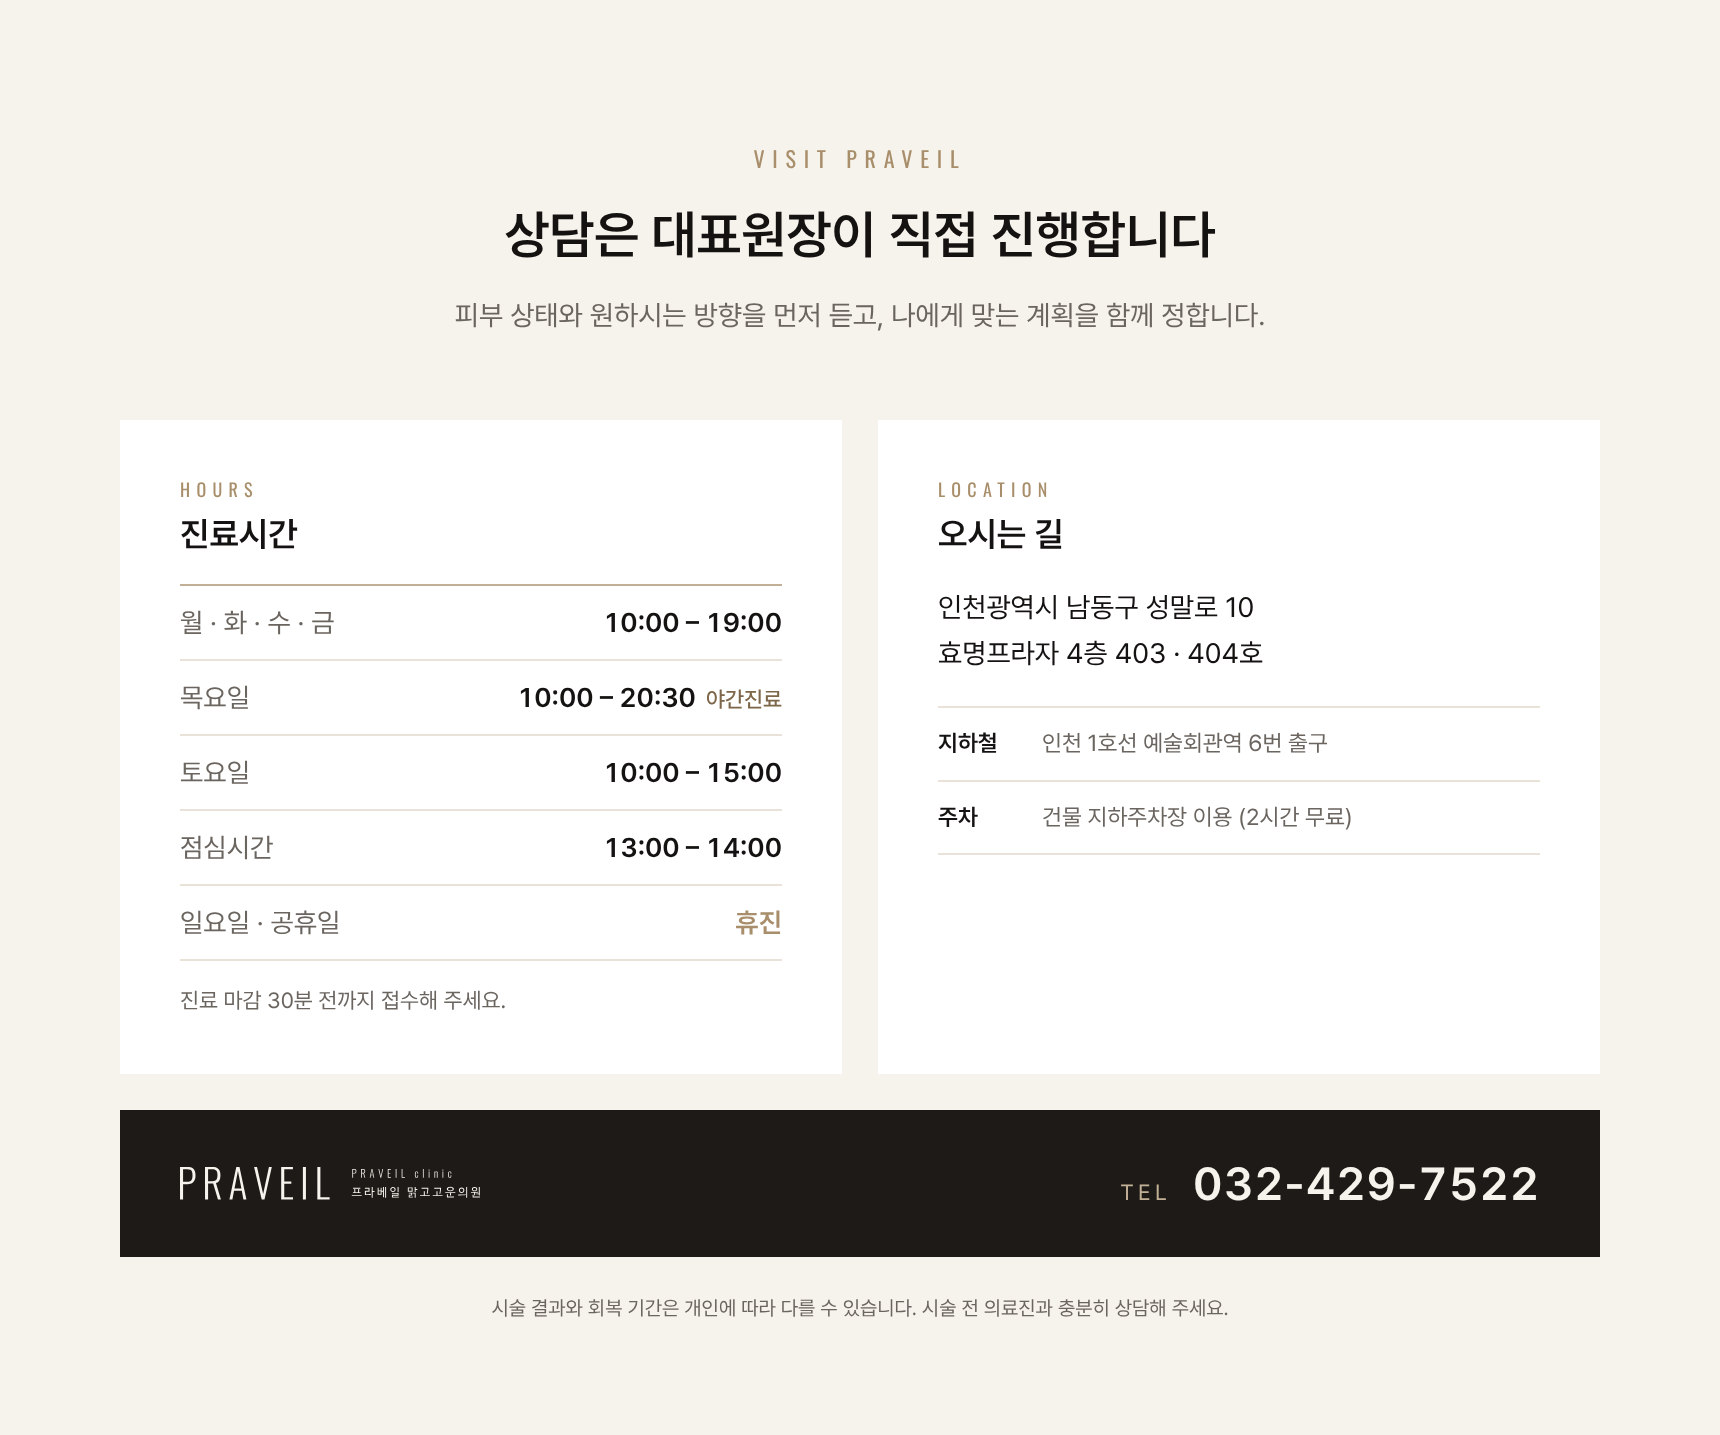
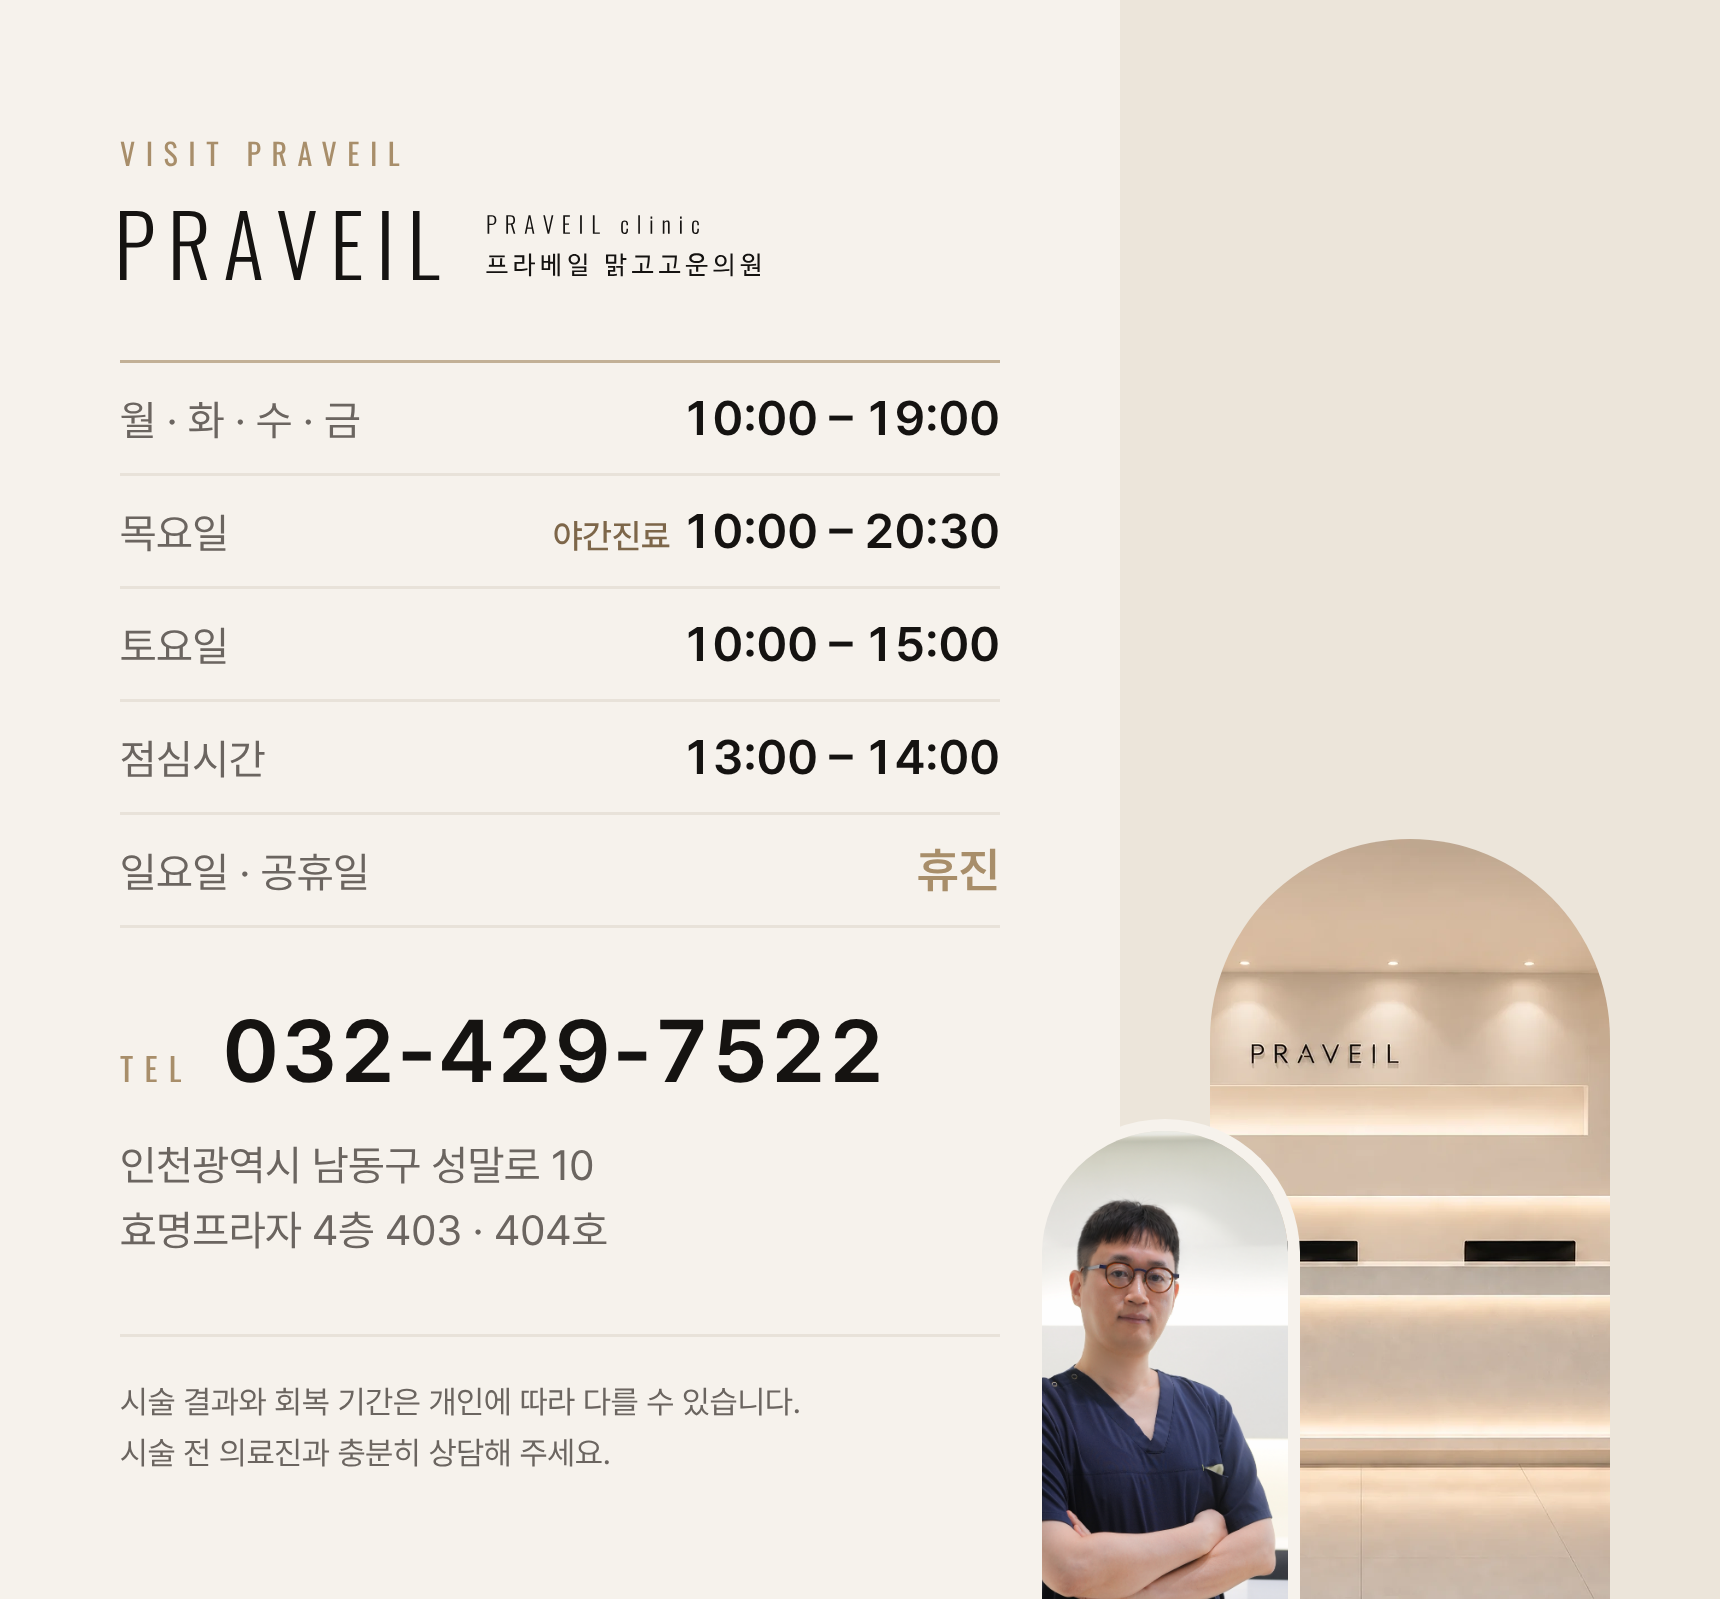
네이버 블로그 글 꼬리 A-3 구성으로 변경 (휴대폰에서 읽히게 글자 크게)
Claude-Session: https://claude.ai/code/session_01Ld2YJmc6iArSkVBjrjkKUN

diff --git a/docs/naver-blog-skin/skin.html b/docs/naver-blog-skin/skin.html
@@ -344,6 +344,7 @@
       }
       #title-a3 .arch.small .photo,
       #post-header .arch.small .photo,
+      #post-footer .arch.small .photo,
       #mobile-cover .arch.small .photo {
         /* 원장 세로 프로필: 얼굴 · 상반신이 보이게 확대 */
         object-position: 50% 0%;
@@ -706,139 +707,112 @@
         border-bottom: 0;
       }
 
+      /* 글 꼬리: A-3 구성. 휴대폰에서 약 1/5 크기로 보여서 글자를 크게 (본문 42px 이상) */
       #post-footer {
         width: 1720px;
         background: var(--ivory);
-        padding: 120px 120px 110px;
+        padding: 130px 120px 120px;
       }
-      #post-footer .head {
-        text-align: center;
+      #post-footer .panel {
+        position: absolute;
+        right: 0;
+        top: 0;
+        bottom: 0;
+        width: 600px;
+        background: var(--sand);
       }
-      #post-footer .head .en {
-        font-size: 22px;
+      #post-footer .copy {
+        position: relative;
+        width: 880px;
+        display: flex;
+        flex-direction: column;
+      }
+      #post-footer .copy > .en {
+        font-size: 30px;
         color: var(--gold);
       }
-      #post-footer .head h3 {
-        margin-top: 22px;
-        font-size: 52px;
-        font-weight: 600;
-        line-height: 1.4;
-      }
-      #post-footer .head p {
-        margin-top: 20px;
-        font-size: 28px;
-        color: var(--muted);
-        line-height: 1.7;
-      }
-      #post-footer .grid {
-        margin-top: 80px;
-        display: grid;
-        grid-template-columns: 1fr 1fr;
-        gap: 36px;
-      }
-      #post-footer .card {
-        background: var(--cream);
-        padding: 56px 60px;
-      }
-      #post-footer .card .en {
-        font-size: 18px;
-        color: var(--gold);
-      }
-      #post-footer .card h4 {
-        margin-top: 12px;
-        font-size: 34px;
-        font-weight: 600;
+      #post-footer .logo {
+        margin-top: 36px;
+        width: 640px;
+        color: var(--ink);
       }
       #post-footer dl {
-        margin-top: 30px;
-        border-top: 2px solid var(--taupe);
+        margin-top: 80px;
+        border-top: 3px solid var(--taupe);
       }
       #post-footer dl div {
         display: flex;
         justify-content: space-between;
-        padding: 20px 0;
-        border-bottom: 2px solid var(--line);
-        font-size: 27px;
+        align-items: baseline;
+        padding: 26px 0;
+        border-bottom: 3px solid var(--line);
       }
       #post-footer dt {
+        font-size: 42px;
         color: var(--muted);
       }
       #post-footer dd {
+        font-size: 48px;
         font-weight: 600;
         font-variant-numeric: tabular-nums;
       }
       #post-footer dd em {
         font-style: normal;
+        font-size: 34px;
         font-weight: 500;
         color: var(--mocha);
-        font-size: 22px;
-        margin-left: 10px;
+        margin-left: 14px;
       }
       #post-footer .closed dd {
         color: var(--gold);
       }
-      #post-footer .card .note {
-        margin-top: 22px;
-        font-size: 22px;
-        color: var(--muted);
-        line-height: 1.6;
-      }
-      #post-footer .loc p:not(.en) {
-        margin-top: 30px;
-        font-size: 28px;
-        line-height: 1.65;
-      }
-      #post-footer .loc ul {
-        margin-top: 30px;
-        list-style: none;
-        border-top: 2px solid var(--line);
-      }
-      #post-footer .loc li {
+      #post-footer .tel {
+        margin-top: 70px;
         display: flex;
-        gap: 24px;
-        padding: 18px 0;
-        border-bottom: 2px solid var(--line);
-        font-size: 23px;
+        align-items: baseline;
+        gap: 30px;
+        font-size: 88px;
+        font-weight: 600;
+        letter-spacing: 0.02em;
+        font-variant-numeric: tabular-nums;
+      }
+      #post-footer .tel .en {
+        font-size: 32px;
+        font-weight: 400;
+        color: var(--gold);
+      }
+      #post-footer .addr {
+        margin-top: 30px;
+        font-size: 42px;
         line-height: 1.55;
         color: var(--muted);
       }
-      #post-footer .loc li b {
-        flex: none;
-        width: 80px;
-        color: var(--ink);
-        font-weight: 600;
-      }
-      #post-footer .bar {
-        margin-top: 36px;
-        background: var(--espresso);
-        color: var(--ivory);
-        display: flex;
-        align-items: center;
-        justify-content: space-between;
-        padding: 46px 60px;
-      }
-      #post-footer .bar .logo {
-        width: 300px;
-      }
-      #post-footer .bar .tel {
-        font-size: 46px;
-        font-weight: 600;
-        font-variant-numeric: tabular-nums;
-        letter-spacing: 0.02em;
-      }
-      #post-footer .bar .tel span {
-        font-size: 22px;
-        font-weight: 400;
-        color: var(--taupe);
-        margin-right: 22px;
-        letter-spacing: 0.2em;
-      }
       #post-footer .legal {
-        margin-top: 34px;
-        text-align: center;
-        font-size: 20px;
+        margin-top: 70px;
+        padding-top: 40px;
+        border-top: 3px solid var(--line);
+        font-size: 32px;
+        line-height: 1.6;
         color: var(--muted);
-        line-height: 1.7;
+      }
+      #post-footer .arch {
+        position: absolute;
+        bottom: 0;
+        overflow: hidden;
+      }
+      #post-footer .arch.main {
+        right: 110px;
+        width: 400px;
+        height: 760px;
+        border-radius: 200px 200px 0 0;
+      }
+      #post-footer .arch.small {
+        right: 420px;
+        width: 270px;
+        height: 480px;
+        border-radius: 135px 135px 0 0;
+        border: 12px solid var(--ivory);
+        border-bottom: 0;
       }
 
       /* 본문 소제목 띠 (1720 × 200) */
@@ -1140,62 +1114,52 @@
       <p class="en">Praveil Point</p>
     </section>
 
-    <!-- 글 꼬리 -->
+    <!-- 글 꼬리: A-3 구성 -->
     <section class="asset" id="post-footer">
-      <div class="head">
+      <div class="panel"></div>
+      <div class="copy">
         <p class="en">Visit Praveil</p>
-        <h3>상담은 대표원장이 직접 진행합니다</h3>
-        <p>
-          피부 상태와 원하시는 방향을 먼저 듣고, 나에게 맞는 계획을 함께
-          정합니다.
+        <div class="logo">{{LOGO}}</div>
+        <dl>
+          <div>
+            <dt>월 · 화 · 수 · 금</dt>
+            <dd>10:00 – 19:00</dd>
+          </div>
+          <div>
+            <dt>목요일</dt>
+            <dd><em>야간진료</em> 10:00 – 20:30</dd>
+          </div>
+          <div>
+            <dt>토요일</dt>
+            <dd>10:00 – 15:00</dd>
+          </div>
+          <div>
+            <dt>점심시간</dt>
+            <dd>13:00 – 14:00</dd>
+          </div>
+          <div class="closed">
+            <dt>일요일 · 공휴일</dt>
+            <dd>휴진</dd>
+          </div>
+        </dl>
+        <p class="tel"><span class="en">Tel</span>032-429-7522</p>
+        <p class="addr">
+          인천광역시 남동구 성말로 10<br />효명프라자 4층 403 · 404호
+        </p>
+        <p class="legal">
+          시술 결과와 회복 기간은 개인에 따라 다를 수 있습니다.<br />시술 전
+          의료진과 충분히 상담해 주세요.
         </p>
       </div>
-      <div class="grid">
-        <div class="card">
-          <p class="en">Hours</p>
-          <h4>진료시간</h4>
-          <dl>
-            <div>
-              <dt>월 · 화 · 수 · 금</dt>
-              <dd>10:00 – 19:00</dd>
-            </div>
-            <div>
-              <dt>목요일</dt>
-              <dd>10:00 – 20:30<em>야간진료</em></dd>
-            </div>
-            <div>
-              <dt>토요일</dt>
-              <dd>10:00 – 15:00</dd>
-            </div>
-            <div>
-              <dt>점심시간</dt>
-              <dd>13:00 – 14:00</dd>
-            </div>
-            <div class="closed">
-              <dt>일요일 · 공휴일</dt>
-              <dd>휴진</dd>
-            </div>
-          </dl>
-          <p class="note">진료 마감 30분 전까지 접수해 주세요.</p>
-        </div>
-        <div class="card loc">
-          <p class="en">Location</p>
-          <h4>오시는 길</h4>
-          <p>인천광역시 남동구 성말로 10<br />효명프라자 4층 403 · 404호</p>
-          <ul>
-            <li><b>지하철</b>인천 1호선 예술회관역 6번 출구</li>
-            <li><b>주차</b>건물 지하주차장 이용 (2시간 무료)</li>
-          </ul>
-        </div>
+      <div class="arch main">
+        <img class="photo" src="../../public/images/photos/hero-lobby.webp" />
       </div>
-      <div class="bar">
-        <div class="logo">{{LOGO}}</div>
-        <p class="tel"><span>TEL</span>032-429-7522</p>
+      <div class="arch small">
+        <img
+          class="photo"
+          src="../../public/images/photos/retouched/doctor-portrait.jpg"
+        />
       </div>
-      <p class="legal">
-        시술 결과와 회복 기간은 개인에 따라 다를 수 있습니다. 시술 전 의료진과
-        충분히 상담해 주세요.
-      </p>
     </section>
 
     <!-- 6. 모바일 커버: A-3 구성에서 로고와 사진만 -->

diff --git a/docs/naver-blog-skin/README.md b/docs/naver-blog-skin/README.md
@@ -14,7 +14,7 @@
 | `out/profile.png`                                               | 600 × 600                         | 관리 → 기본 설정 → 블로그 정보 → 블로그 프로필 이미지                  |
 | `out/post-header.png`                                           | 1720 × 560                        | 글 맨 위 (글감 · 템플릿)                                               |
 | `out/post-divider.png`                                          | 1720 × 220                        | 글 중간 소제목 띠                                                      |
-| `out/post-footer.png`                                           | 1720 × 1435                       | 글 맨 아래 (진료시간 · 오시는 길 · 전화)                               |
+| `out/post-footer.png`                                           | 1720 × 1599                       | 글 맨 아래 (진료시간 · 전화 · 주소, A-3 구성)                          |
 | `out/mobile-cover.png`                                          | 1080 × 1080                       | 모바일 앱 → 블로그 홈 → 홈편집 → 커버 이미지 (A-3 구성, 로고 · 사진만) |
 
 ## 붙이는 순서
